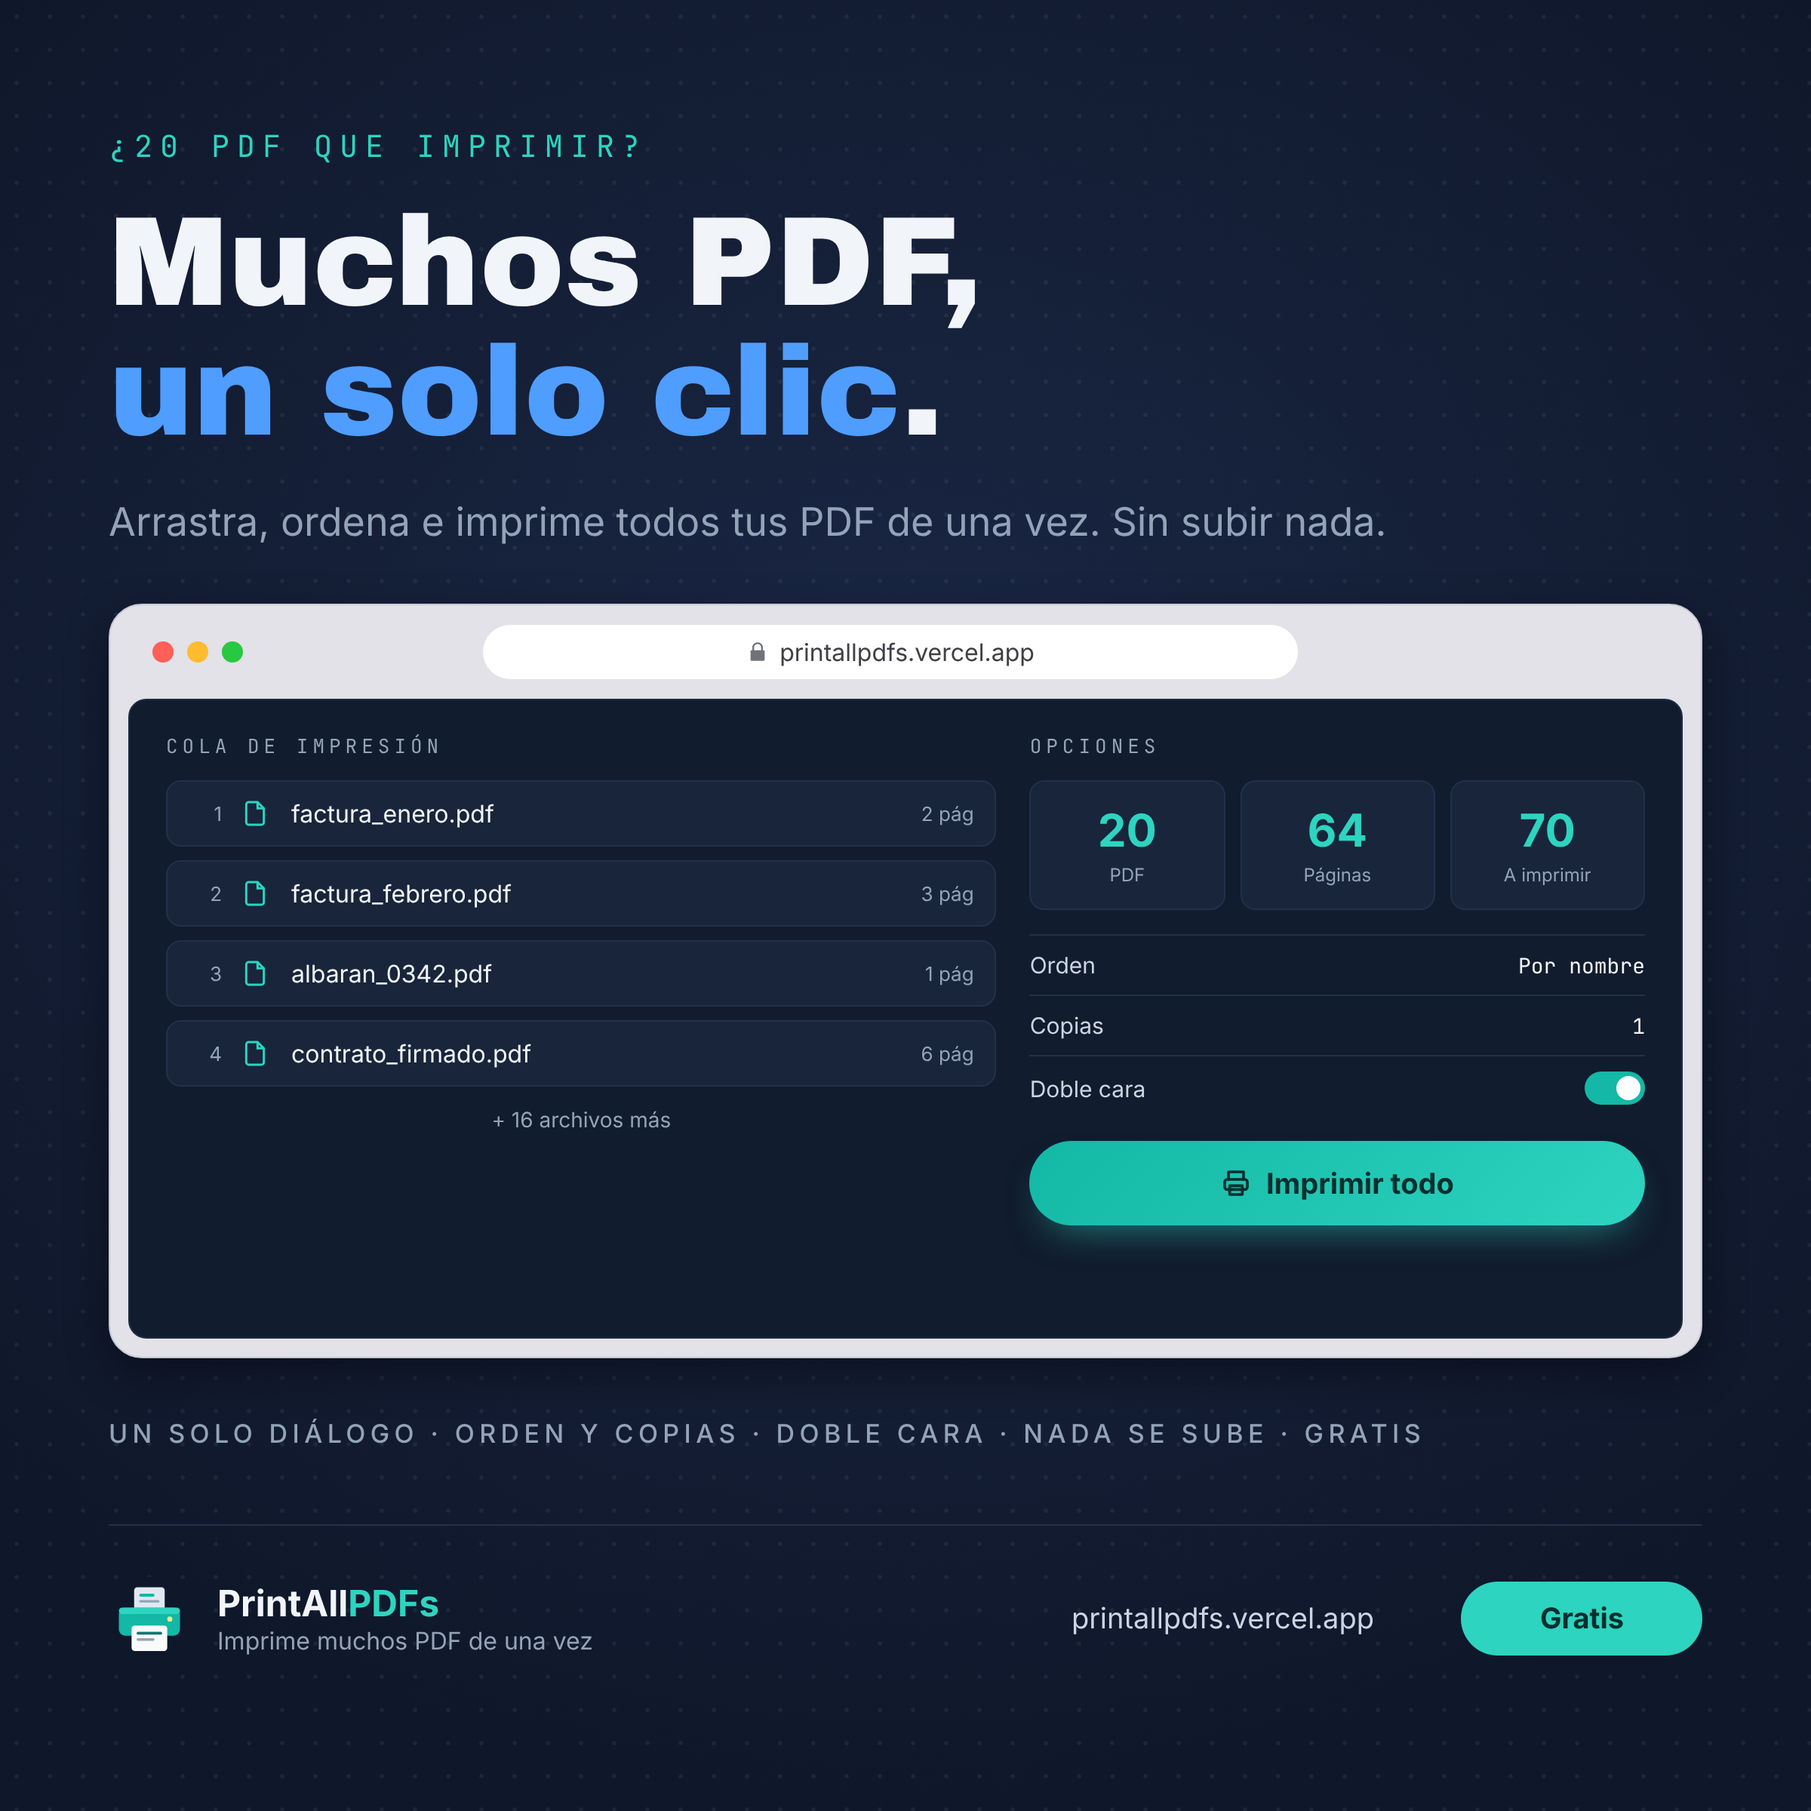
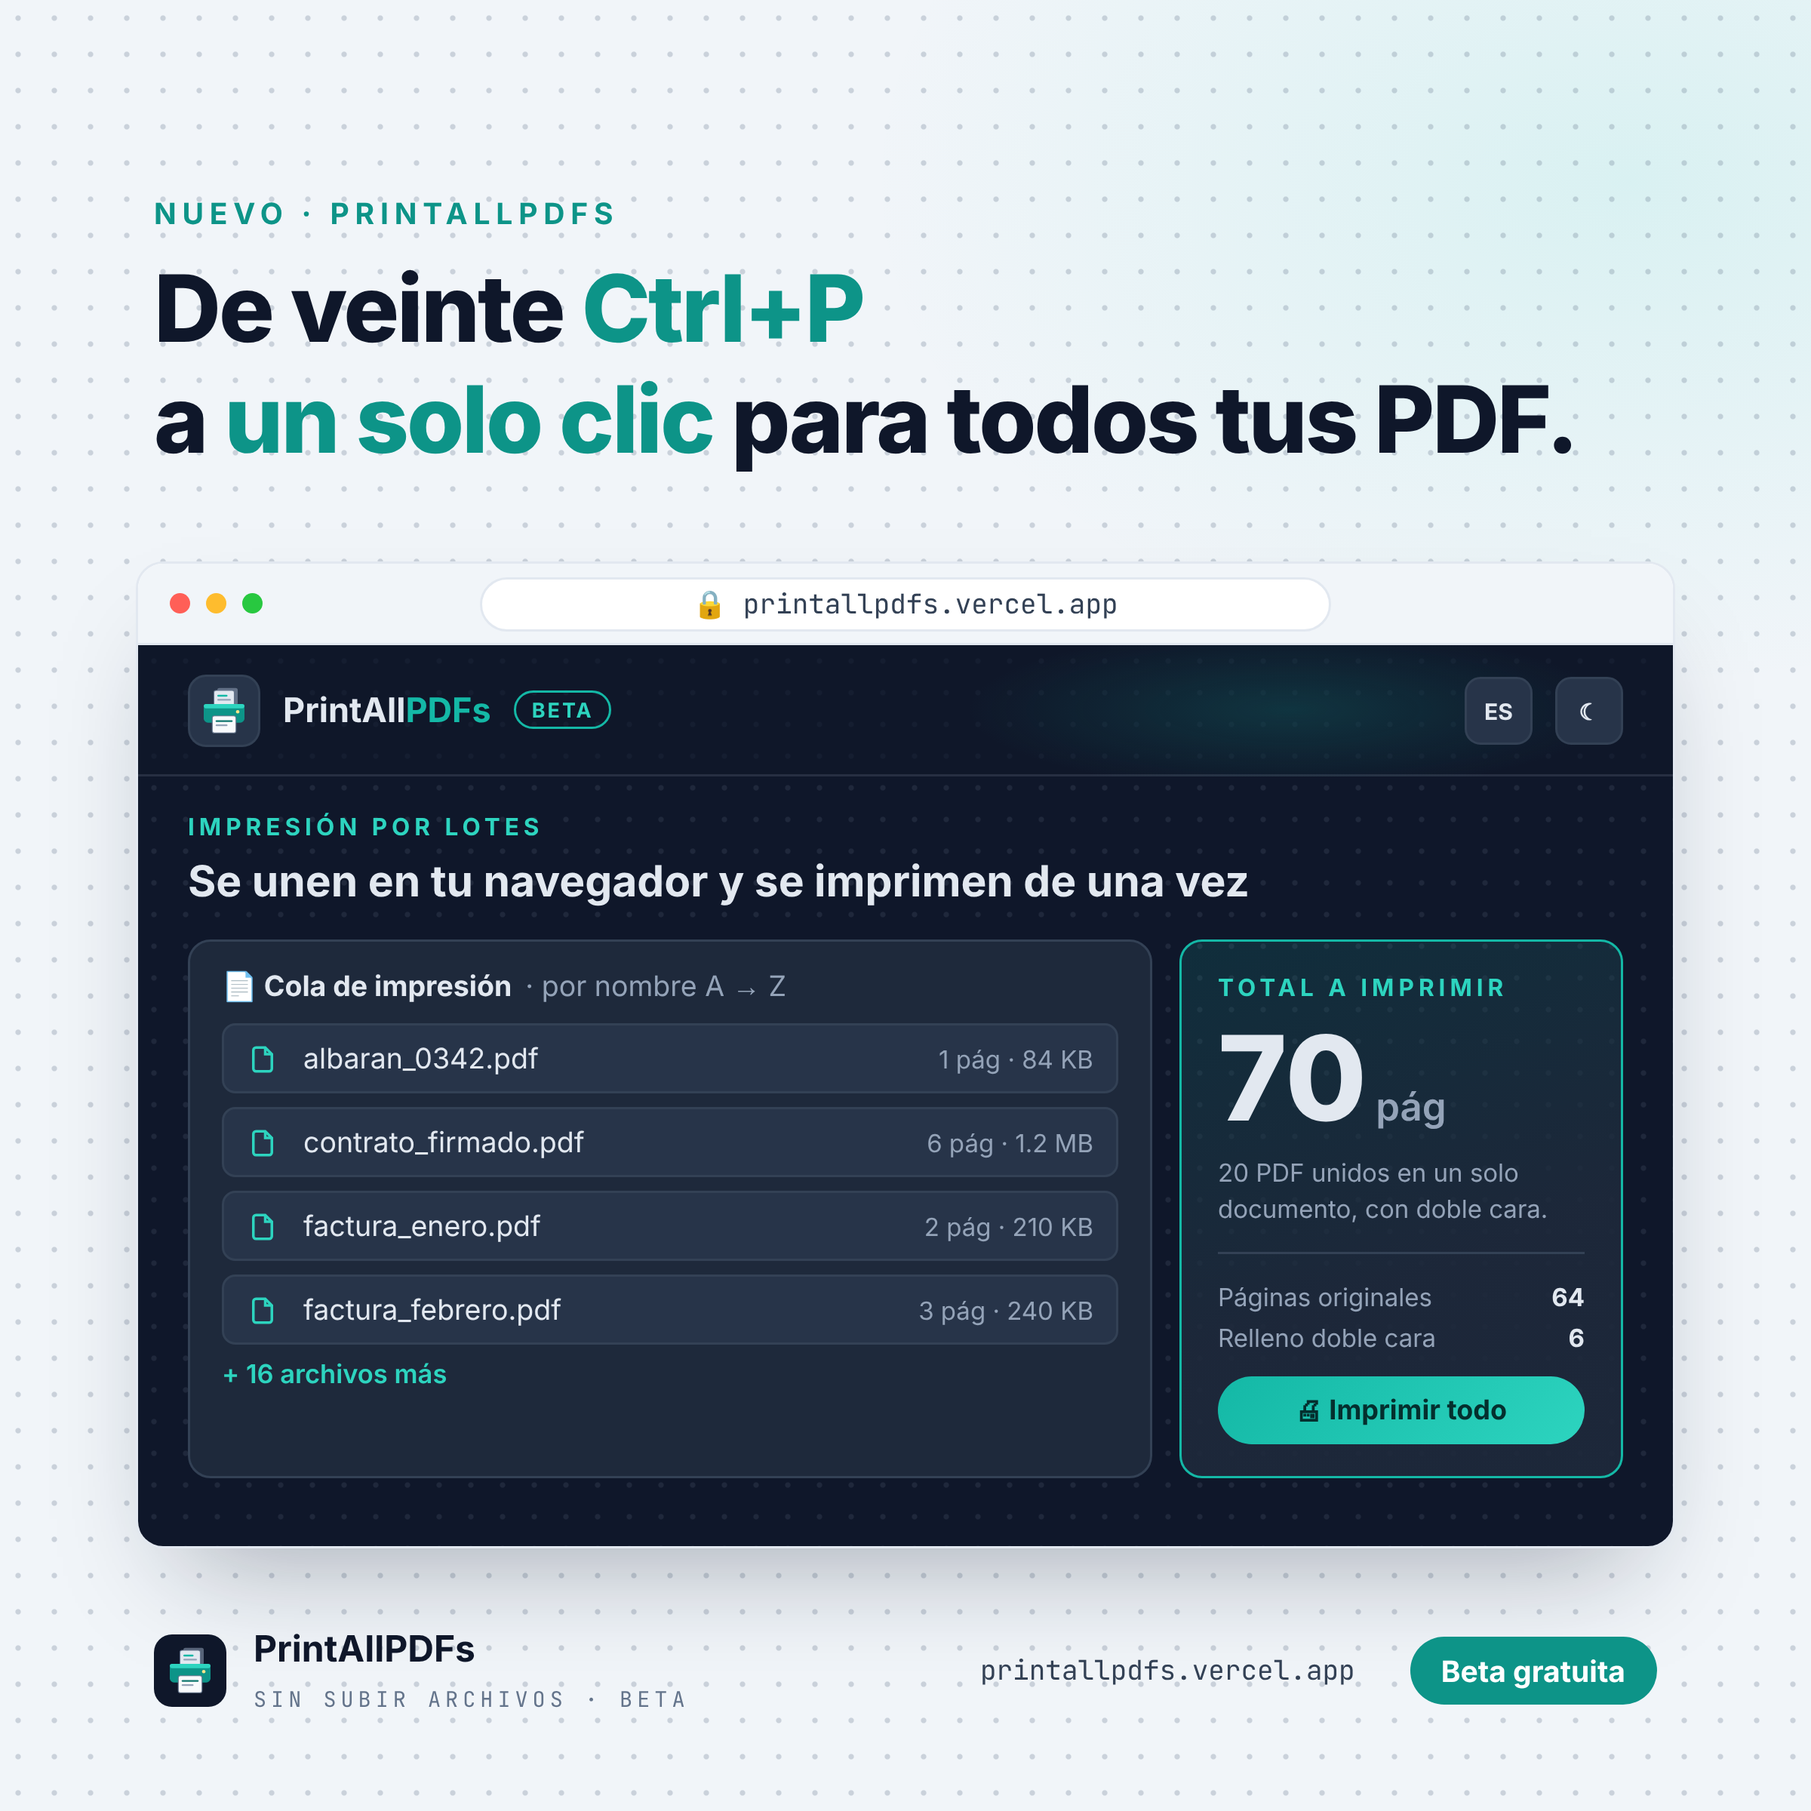
Redesign LinkedIn cover with light frame and dark app mockup
Claude-Session: https://claude.ai/code/session_013VVEejJKwxZ8AJJ3Yyg4hp

diff --git a/linkedin/cover.html b/linkedin/cover.html
@@ -1,77 +1,94 @@
 <!doctype html>
 <html lang="es"><head><meta charset="utf-8">
-<link href="https://fonts.googleapis.com/css2?family=Archivo+Black&family=JetBrains+Mono:wght@400;600&family=Inter:wght@400;500;600;700&display=swap" rel="stylesheet">
+<link href="https://fonts.googleapis.com/css2?family=Inter:wght@400;500;600;700;800&family=JetBrains+Mono:wght@400;500&display=swap" rel="stylesheet">
 <style>
-:root{--bg0:#1a2744;--bg1:#0f172a;--teal:#2dd4bf;--teal2:#14b8a6;--blue:#4f9dff;--white:#f1f5f9;--gray:#94a3b8;--panel:#111c2e;--line:#22314a}
+:root{--navy:#0f172a;--teal:#0d9488;--teal2:#14b8a6;--teal3:#2dd4bf;--muted:#64748b;--panel:#1e293b;--panel2:#273449;--border:#334155;--text:#e2e8f0;--gray:#94a3b8}
 *{box-sizing:border-box;margin:0}
-body{width:1200px;height:1200px;background:radial-gradient(ellipse 70% 60% at 50% 40%,var(--bg0),var(--bg1));font-family:Inter,sans-serif;color:var(--white);position:relative;overflow:hidden}
-body::before{content:"";position:absolute;inset:0;background-image:radial-gradient(rgba(148,163,184,.10) 1.2px,transparent 1.6px);background-size:22px 22px}
-.c{position:absolute;left:72px;right:72px}
-.kicker{top:84px;font-family:'JetBrains Mono';font-size:20px;letter-spacing:5px;color:var(--teal)}
-h1{top:132px;font-family:'Archivo Black';font-size:84px;line-height:1.02;font-weight:400}
-h1 span{color:var(--blue)}
-.sub{top:330px;font-size:26px;color:var(--gray)}
-.win{top:400px;height:500px;background:#e2e2e8;border:1px solid #c9c9d4;border-radius:22px;box-shadow:0 10px 28px rgba(0,0,0,.4);padding:0 12px 12px}
-.bar{height:62px;display:flex;align-items:center;gap:9px;padding-left:16px}
-.dot{width:14px;height:14px;border-radius:50%}
-.url{margin-left:150px;width:540px;height:36px;background:#fff;border-radius:18px;display:flex;align-items:center;justify-content:center;gap:8px;color:#3f3f46;font-size:16px}
-.app{height:calc(100% - 62px);background:var(--panel);border:1px solid #1e2b42;border-radius:12px;padding:22px 24px;display:grid;grid-template-columns:1.35fr 1fr;gap:22px}
-.lab{font-family:'JetBrains Mono';font-size:13px;letter-spacing:3px;color:var(--gray);margin-bottom:14px}
-.file{display:grid;grid-template-columns:22px 22px 1fr auto;gap:12px;align-items:center;padding:11px 14px;margin-bottom:9px;background:#18253b;border:1px solid var(--line);border-radius:10px;font-size:16px}
-.file .n{color:var(--gray);font-size:13px;text-align:right}
-.file .m{color:var(--gray);font-size:13px}
-.file svg{color:var(--teal)}
-.more{color:var(--gray);font-size:14px;text-align:center;padding-top:4px}
-.stats{display:grid;grid-template-columns:repeat(3,1fr);gap:10px;margin-bottom:16px}
-.st{background:#18253b;border:1px solid var(--line);border-radius:10px;text-align:center;padding:14px 0}
-.st b{display:block;font-size:30px;color:var(--teal);font-weight:700}
-.st span{font-size:12px;color:var(--gray)}
-.opt{display:flex;justify-content:space-between;align-items:center;font-size:15px;padding:10px 0;border-top:1px solid var(--line);color:#cbd5e1}
-.sw{width:40px;height:22px;border-radius:999px;background:var(--teal2);position:relative}
-.sw::after{content:"";position:absolute;right:3px;top:3px;width:16px;height:16px;border-radius:50%;background:#fff}
-.pill{font-family:'JetBrains Mono';font-size:14px;color:var(--white)}
-.btn{margin-top:14px;height:56px;border-radius:999px;background:linear-gradient(135deg,var(--teal2),var(--teal));color:#042f2e;font-weight:700;font-size:19px;display:flex;align-items:center;justify-content:center;gap:10px;box-shadow:0 12px 26px -12px rgba(45,212,191,.6)}
-.tags{top:940px;font-size:17px;letter-spacing:3.2px;color:var(--gray);font-weight:500}
-.foot{top:1010px;border-top:1px solid #22314a;padding-top:34px;display:flex;align-items:center;gap:18px}
-.foot img{width:54px;height:54px}
-.brand b{display:block;font-size:24px;font-weight:700}
-.brand b span{color:var(--teal)}
-.brand small{font-size:16px;color:var(--gray)}
-.foot .site{margin-left:auto;font-size:19px;color:#cbd5e1}
-.free{margin-left:40px;background:var(--teal);color:#042f2e;font-weight:700;font-size:19px;padding:13px 52px;border-radius:999px}
+body{width:800px;height:800px;font-family:Inter,sans-serif;color:var(--navy);position:relative;overflow:hidden;
+ background:radial-gradient(ellipse 60% 40% at 90% 10%,rgba(45,212,191,.12),transparent 70%),#f1f5f9}
+body::before{content:"";position:absolute;inset:0;background-image:radial-gradient(rgba(100,116,139,.28) 1px,transparent 1.4px);background-size:16px 16px}
+.c{position:absolute;left:68px;right:68px}
+.kicker{top:86px;font-size:13px;font-weight:700;letter-spacing:2.6px;color:var(--teal)}
+h1{top:112px;font-size:41px;line-height:1.2;font-weight:800;letter-spacing:-1px}
+h1 span{color:var(--teal)}
+.win{left:60px;right:60px;top:248px;height:436px;border-radius:12px;background:#fff;border:1px solid #e2e8f0;box-shadow:0 24px 48px -20px rgba(15,23,42,.35);overflow:hidden}
+.bar{height:36px;background:#f1f5f9;border-bottom:1px solid #e2e8f0;display:flex;align-items:center;padding:0 14px;gap:7px}
+.dot{width:9px;height:9px;border-radius:50%}
+.url{margin:0 auto;transform:translateX(-24px);width:376px;height:24px;border-radius:12px;background:#fff;border:1px solid #e2e8f0;display:flex;align-items:center;justify-content:center;gap:6px;font-family:'JetBrains Mono';font-size:12px;color:#334155}
+.app{height:400px;background:#0f172a;background-image:radial-gradient(rgba(148,163,184,.12) 1px,transparent 1.4px);background-size:14px 14px;color:var(--text)}
+.hdr{height:58px;display:flex;align-items:center;gap:10px;padding:0 22px;border-bottom:1px solid rgba(148,163,184,.18);background:radial-gradient(ellipse 30% 90% at 75% 50%,rgba(20,184,166,.18),transparent 70%),rgba(15,23,42,.6)}
+.logo{width:32px;height:32px;border-radius:8px;background:var(--panel2);border:1px solid var(--border);display:flex;align-items:center;justify-content:center}
+.brand{font-weight:700;font-size:15px}.brand span{color:var(--teal2)}
+.beta{font-size:9px;font-weight:700;letter-spacing:1px;padding:2px 7px;border-radius:999px;border:1px solid var(--teal2);color:var(--teal3)}
+.hbtn{width:30px;height:30px;border-radius:7px;border:1px solid var(--border);background:var(--panel2);display:flex;align-items:center;justify-content:center;font-size:10px;font-weight:700;color:var(--text)}
+.sp{flex:1}
+.body{padding:16px 22px 22px}
+.lab{font-size:10.5px;font-weight:700;letter-spacing:2px;color:var(--teal3)}
+.ttl{font-size:19px;font-weight:700;margin:6px 0 14px}
+.grid>*{min-height:0}
+.grid{display:grid;grid-template-columns:1fr 196px;gap:12px}
+.card{background:var(--panel);border:1px solid var(--border);border-radius:10px;padding:12px 14px}
+.ch{font-size:12.5px;font-weight:700;margin-bottom:9px;display:flex;align-items:center;gap:6px}.ch span{color:var(--gray);font-weight:400}
+.file{display:grid;grid-template-columns:16px 1fr auto;gap:9px;align-items:center;height:31px;padding:0 10px;margin-bottom:6px;background:var(--panel2);border:1px solid var(--border);border-radius:6px;font-size:12.5px}
+.file svg{color:var(--teal3)}
+.file em{font-style:normal;color:var(--gray);font-size:11px}
+.add{font-size:11.5px;color:var(--teal3);font-weight:600;margin-top:4px}
+.tot{background:linear-gradient(160deg,rgba(20,184,166,.14),rgba(30,41,59,.9) 60%);border:1px solid var(--teal2);border-radius:10px;padding:14px 16px;display:flex;flex-direction:column}
+.big{font-size:52px;font-weight:800;line-height:1;margin-top:8px}.big small{font-size:17px;font-weight:600;color:var(--gray);margin-left:4px}
+.tot p{font-size:11px;color:var(--gray);line-height:1.45;margin-top:8px;margin-bottom:10px}
+.rows{margin-top:auto;border-top:1px solid var(--border);padding-top:8px}
+.row{display:flex;justify-content:space-between;font-size:11px;color:var(--gray);margin-top:4px}.row b{color:var(--text)}
+.btn{margin-top:10px;height:30px;border-radius:999px;background:linear-gradient(135deg,var(--teal2),var(--teal3));color:#042f2e;font-weight:700;font-size:12px;display:flex;align-items:center;justify-content:center;gap:6px}
+.foot{top:718px;display:flex;align-items:center;gap:12px}
+.flogo{width:32px;height:32px;border-radius:8px;background:var(--navy);display:flex;align-items:center;justify-content:center}
+.fb b{display:block;font-size:16px;font-weight:700}
+.fb small{font-family:'JetBrains Mono';font-size:9.5px;letter-spacing:2px;color:var(--muted)}
+.site{margin-left:auto;font-family:'JetBrains Mono';font-size:12px;color:#334155}
+.pill{margin-left:12px;background:var(--teal);color:#fff;font-weight:700;font-size:13px;padding:7px 14px;border-radius:999px}
 </style></head><body>
-<div class="c kicker">¿20 PDF QUE IMPRIMIR?</div>
-<h1 class="c">Muchos PDF,<br><span>un solo clic</span>.</h1>
-<p class="c sub">Arrastra, ordena e imprime todos tus PDF de una vez. Sin subir nada.</p>
+<div class="c kicker">NUEVO · PRINTALLPDFS</div>
+<h1 class="c">De veinte <span>Ctrl+P</span><br>a <span>un solo clic</span> para todos tus PDF.</h1>
 
-<div class="c win">
+<div class="win" style="position:absolute">
   <div class="bar"><i class="dot" style="background:#ff5f57"></i><i class="dot" style="background:#febc2e"></i><i class="dot" style="background:#28c840"></i>
-    <div class="url"><svg width="14" height="14" viewBox="0 0 24 24" fill="#71717a"><path d="M6 10V7a6 6 0 0 1 12 0v3h1a1 1 0 0 1 1 1v10a1 1 0 0 1-1 1H5a1 1 0 0 1-1-1V11a1 1 0 0 1 1-1zm2 0h8V7a4 4 0 0 0-8 0z"/></svg>printallpdfs.vercel.app</div></div>
+    <div class="url">🔒 printallpdfs.vercel.app</div></div>
   <div class="app">
-    <div>
-      <div class="lab">COLA DE IMPRESIÓN</div>
-      <div class="file"><span class="n">1</span><svg width="20" height="20" viewBox="0 0 24 24" fill="none" stroke="currentColor" stroke-width="1.8"><path d="M14 3H7a2 2 0 0 0-2 2v14a2 2 0 0 0 2 2h10a2 2 0 0 0 2-2V8z"/><path d="M14 3v5h5"/></svg><span>factura_enero.pdf</span><span class="m">2 pág</span></div>
-      <div class="file"><span class="n">2</span><svg width="20" height="20" viewBox="0 0 24 24" fill="none" stroke="currentColor" stroke-width="1.8"><path d="M14 3H7a2 2 0 0 0-2 2v14a2 2 0 0 0 2 2h10a2 2 0 0 0 2-2V8z"/><path d="M14 3v5h5"/></svg><span>factura_febrero.pdf</span><span class="m">3 pág</span></div>
-      <div class="file"><span class="n">3</span><svg width="20" height="20" viewBox="0 0 24 24" fill="none" stroke="currentColor" stroke-width="1.8"><path d="M14 3H7a2 2 0 0 0-2 2v14a2 2 0 0 0 2 2h10a2 2 0 0 0 2-2V8z"/><path d="M14 3v5h5"/></svg><span>albaran_0342.pdf</span><span class="m">1 pág</span></div>
-      <div class="file"><span class="n">4</span><svg width="20" height="20" viewBox="0 0 24 24" fill="none" stroke="currentColor" stroke-width="1.8"><path d="M14 3H7a2 2 0 0 0-2 2v14a2 2 0 0 0 2 2h10a2 2 0 0 0 2-2V8z"/><path d="M14 3v5h5"/></svg><span>contrato_firmado.pdf</span><span class="m">6 pág</span></div>
-      <div class="more">+ 16 archivos más</div>
+    <div class="hdr">
+      <div class="logo"><img src="../images/logo.svg" width="24" height="24" alt=""></div>
+      <span class="brand">PrintAll<span>PDFs</span></span><span class="beta">BETA</span>
+      <span class="sp"></span><span class="hbtn">ES</span><span class="hbtn">☾</span>
     </div>
-    <div>
-      <div class="lab">OPCIONES</div>
-      <div class="stats"><div class="st"><b>20</b><span>PDF</span></div><div class="st"><b>64</b><span>Páginas</span></div><div class="st"><b>70</b><span>A imprimir</span></div></div>
-      <div class="opt">Orden <span class="pill">Por nombre</span></div>
-      <div class="opt">Copias <span class="pill">1</span></div>
-      <div class="opt">Doble cara <i class="sw"></i></div>
-      <div class="btn"><svg width="20" height="20" viewBox="0 0 24 24" fill="none" stroke="currentColor" stroke-width="2.2" stroke-linecap="round" stroke-linejoin="round"><path d="M6 9V3h12v6"/><rect x="3" y="9" width="18" height="8" rx="2"/><path d="M7 14h10v7H7z"/></svg>Imprimir todo</div>
+    <div class="body">
+      <div class="lab">IMPRESIÓN POR LOTES</div>
+      <div class="ttl">Se unen en tu navegador y se imprimen de una vez</div>
+      <div class="grid">
+        <div class="card">
+          <div class="ch">📄 Cola de impresión <span>· por nombre A → Z</span></div>
+          <div class="file"><svg width="14" height="14" viewBox="0 0 24 24" fill="none" stroke="currentColor" stroke-width="2"><path d="M14 3H7a2 2 0 0 0-2 2v14a2 2 0 0 0 2 2h10a2 2 0 0 0 2-2V8z"/><path d="M14 3v5h5"/></svg>albaran_0342.pdf<em>1 pág · 84 KB</em></div>
+          <div class="file"><svg width="14" height="14" viewBox="0 0 24 24" fill="none" stroke="currentColor" stroke-width="2"><path d="M14 3H7a2 2 0 0 0-2 2v14a2 2 0 0 0 2 2h10a2 2 0 0 0 2-2V8z"/><path d="M14 3v5h5"/></svg>contrato_firmado.pdf<em>6 pág · 1.2 MB</em></div>
+          <div class="file"><svg width="14" height="14" viewBox="0 0 24 24" fill="none" stroke="currentColor" stroke-width="2"><path d="M14 3H7a2 2 0 0 0-2 2v14a2 2 0 0 0 2 2h10a2 2 0 0 0 2-2V8z"/><path d="M14 3v5h5"/></svg>factura_enero.pdf<em>2 pág · 210 KB</em></div>
+          <div class="file"><svg width="14" height="14" viewBox="0 0 24 24" fill="none" stroke="currentColor" stroke-width="2"><path d="M14 3H7a2 2 0 0 0-2 2v14a2 2 0 0 0 2 2h10a2 2 0 0 0 2-2V8z"/><path d="M14 3v5h5"/></svg>factura_febrero.pdf<em>3 pág · 240 KB</em></div>
+          <div class="add">+ 16 archivos más</div>
+        </div>
+        <div class="tot">
+          <div class="lab">TOTAL A IMPRIMIR</div>
+          <div class="big">70<small>pág</small></div>
+          <p>20 PDF unidos en un solo documento, con doble cara.</p>
+          <div class="rows">
+            <div class="row">Páginas originales <b>64</b></div>
+            <div class="row">Relleno doble cara <b>6</b></div>
+          </div>
+          <div class="btn">🖨 Imprimir todo</div>
+        </div>
+      </div>
     </div>
   </div>
 </div>
 
-<div class="c tags">UN SOLO DIÁLOGO · ORDEN Y COPIAS · DOBLE CARA · NADA SE SUBE · GRATIS</div>
 <div class="c foot">
-  <img src="../images/favicon.svg" alt="">
-  <div class="brand"><b>PrintAll<span>PDFs</span></b><small>Imprime muchos PDF de una vez</small></div>
+  <div class="flogo"><img src="../images/logo.svg" width="24" height="24" alt=""></div>
+  <div class="fb"><b>PrintAllPDFs</b><small>SIN SUBIR ARCHIVOS · BETA</small></div>
   <span class="site">printallpdfs.vercel.app</span>
-  <span class="free">Gratis</span>
+  <span class="pill">Beta gratuita</span>
 </div>
 </body></html>
